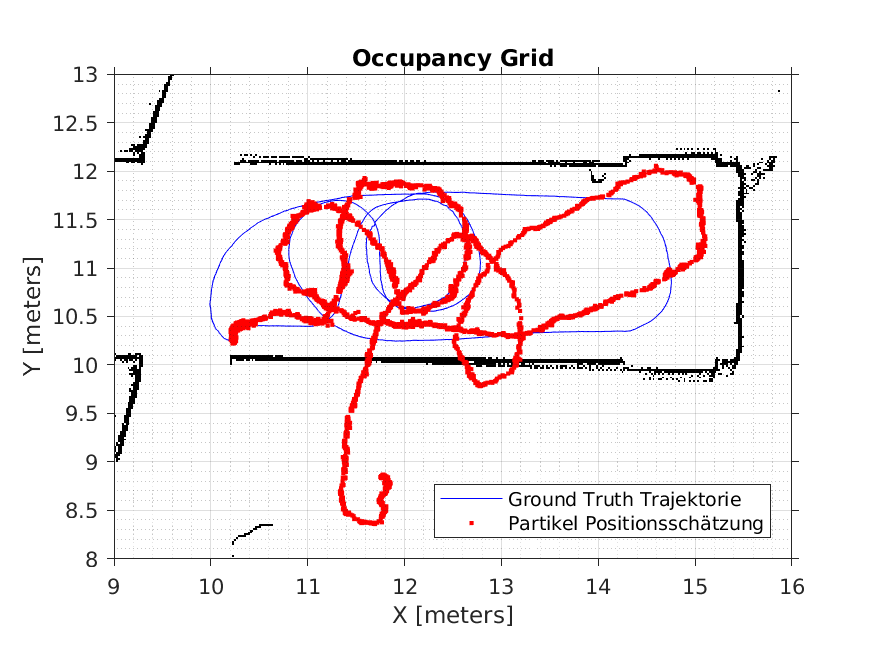
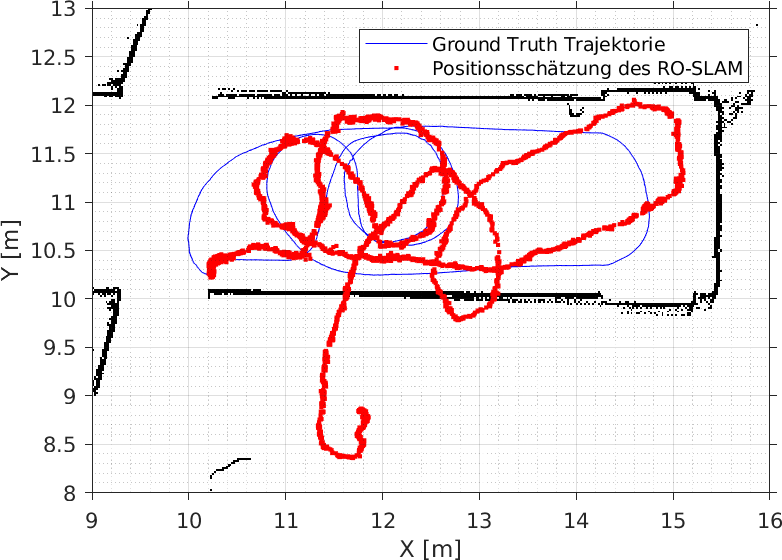
Abschnitt Positionsschätzung abgeschlossen.

diff --git a/6_evaluation.tex b/6_evaluation.tex
@@ -325,7 +325,7 @@ Sowohl die Karte der Umwelt als auch die verfahrenen Trajektorien sind in der \a
 		\caption{RF2O}
 		\label{fig:Record_2018-02-08-12-33-53_trajectory4}
 	\end{subfigure}
-	\caption{Rechteckige Trajektorien mit einigen Kreisbahnen der verschiedenen Odometriequellen.}
+	\caption{Die Trajektorien der verschiedenen Odometriequellen.}
 	\label{fig:Record_2018-02-08-12-33-53_trajectory}
 \end{figure}
 
@@ -371,25 +371,26 @@ Da die Trajektorie des laserbasierten \gls{rf2o}-Verfahren am besten der Ground 
 %%%%%%%%%%
 \subsection{Positionsschätzung}
 
-Im vorherigen Abschnitt wurde bereits die Trajektorie der verschiedenen Odometriequellen untersucht. Mit dem rf2o-Verfahren wird die Positionsschätzung des roslam-Verfahrens untersucht. Es wird dabei die Trajektorie mit dem abgerundeten Rechteck mit mehrere Kreisbahnen verwendet, siehe \autoref{fig:Record_2018-02-08-12-33-53_trajectory}. Da auch die Entfernungsmessungen der uwbm einen Einfluss auf die Positionsschätzung besitz, werden neben den echten Entfernungmessungen auch Entfernungsmessungen von perfekten virtuellen uwbm verwendet.
+Im vorherigen Abschnitt wurde bereits die Trajektorie der verschiedenen Odometriequellen untersucht. Die Entscheidung fiel auf das \gls{rf2o}-Verfahren, mit dem nun die Positionsschätzung des \gls{roslam}-Verfahren untersucht wird. Es wird dabei die Trajektorie mit dem abgerundeten Rechteck mit mehrere Kreisbahnen verwendet, siehe \autoref{fig:Record_2018-02-08-12-33-53_trajectory}. Da auch die Entfernungsmessungen der \glspl{uwbm} einen Einfluss auf die Positionsschätzung haben, werden neben den realen auch virtuelle \glsuseri{uwbm} verwendet. Die virtuellen \glspl{uwbm} zeichnen sich dadurch aus, dass ihre Entfernungsmessungen keine Fehler aufweisen und daher als perfekt angesehen werden können.
 
-In der Abbildung ... ist die tätschliche Trajektorie und die des Partikel Filters abgebildet. Die oben zwei Bilder verwenden die Entfernungsmessungen der echten uwbm, wobei die unteren zwei Bilder die Entfernungsmessung von virtuellen uwbm verwenden. Es ist eindeutigen zu erkennen das die Genauigkeit der Entfernungsmessung einen großen Einfluss auf die Positionsschätzung besitzt. Die oberen zwei Positionsschätzungen weisen starke Abweichungen von der tatsächlichen Trajektorie auf. Erstaunlich ist es auch, das das Abspielen des gleichen Datensatzes immer wieder zu einer anderen Trajektorie führt. Dieses Verhalten lässt sich nur bedingt dadurch erklären, das beim Resampling zufällige Partikel erzeugt werden.
+In der \autoref{fig:Record_2018-02-08-12-33-53_filtered_trajectory_pf} ist die tatsächliche Trajektorie und die des \gls{roslam} Partikel Filters abgebildet. Die oberen zwei Abbildungen verwenden die Entfernungsmessungen der realen \glspl{uwbm} und die unteren zwei Abbildungen die Entfernungsmessung von virtuellen \glspl{uwbm}. Auf der linken Seite befinden sich die Positionsschätzungen die die Ground Truth Trajektorie gut abbilden und auf der rechten Seite die die sie schlecht abbilden. Während bei den realen \glsuseri{uwbm} die Positionsschätzung sehr große Abweichungen von der Ground Truth Trajektorie besitzt, bildet die Positionsschätzung der virtuellen \glspl{uwbm} die Ground Truth Trajektorie deutlich besser ab, selbst bei der schlechten Abbildung weist die Positionsschätzung nur einen leichten Winkelfehler auf.
 
-Die Abweichung bei den virtuellen uwbm fällt deutlich geringer aus, wie man in den Abbildung (c) und (d) sehen kann. Daher liegt die Vermutung sehr nahe, das die Entfernungsmessung der uwbm nicht ausreichtend genau ist .
+Das führt zu der Vermutung, dass die Qualität der Entfernungsmessung einen entscheidenden Einfluss auf die Positionsschätzung des \gls{roslam}-Verfahrens besitzt. Je geringe die Abweichungen der Entfernungsmessung von der tatsächlichen Entfernung desto besser. Bemerkenswert ist es auch, dass die Reproduzierbarkeit der Ergebnisse mit den virtuellen \glsuseri{uwbm} deutlich eher gegeben war, als mit den realen \glsuseri{uwbm}.
 
+% pose_diff.m -> viz_trajectory(...)
 \begin{figure}
 	\centering
 	\begin{subfigure}{0.49\linewidth}
 		\centering
 		\includegraphics[width=\linewidth]{Record_2018-02-08-12-33-53_filtered_3_trajectory_pf}
-		\caption{Trajektorie mit echten UWB-Modulen.}
+		\caption{\textit{Gute} Trajektorie mit den realen \glsuseri{uwbm}.}
 		\label{fig:Record_2018-02-08-12-33-53_filtered_3_trajectory_pf}
 	\end{subfigure}
 	\hfill
 	\begin{subfigure}{0.49\linewidth}
 		\centering
 		\includegraphics[width=\linewidth]{Record_2018-02-08-12-33-53_filtered_1_trajectory_pf}
-		\caption{???}
+		\caption{\textit{Schlechte} Trajektorie mit den realen \glsuseri{uwbm}.}
 		\label{fig:Record_2018-02-08-12-33-53_filtered_1_trajectory_pf}
 	\end{subfigure}
 	\par
@@ -397,17 +398,17 @@ Die Abweichung bei den virtuellen uwbm fällt deutlich geringer aus, wie man in 
 	\begin{subfigure}{0.49\linewidth}
 		\centering
 		\includegraphics[width=\linewidth]{Record_2018-02-08-12-33-53_filtered_5_trajectory_pf}
-		\caption{???}
+		\caption{\textit{Gute} Trajektorie mit den virtuellen \glsuseri{uwbm}.}
 		\label{fig:Record_2018-02-08-12-33-53_filtered_5_trajectory_pf}
 	\end{subfigure}
 	\hfill
 	\begin{subfigure}{0.49\linewidth}
 		\centering
 		\includegraphics[width=\linewidth]{Record_2018-02-08-12-33-53_filtered_4_trajectory_pf}
-		\caption{???}
+		\caption{\textit{Schlechte} Trajektorie mit den virtuellen \glsuseri{uwbm}.}
 		\label{fig:Record_2018-02-08-12-33-53_filtered_4_trajectory_pf}
 	\end{subfigure}
-	\caption{???}
+	\caption{Resultierende Trajektorie aus der Positionsschätzung des \glsentryshort{roslam} mit realen und virtuellen \glsuseri{uwbm}.}
 	\label{fig:Record_2018-02-08-12-33-53_filtered_trajectory_pf}
 \end{figure}
 

diff --git a/auswertungen/ro_slam_data/pose_diff.m b/auswertungen/ro_slam_data/pose_diff.m
@@ -17,7 +17,7 @@ map_center = (map_size * map_resolution) / 2;
 %
 %file_name_source = 'Record_2017-12-18-11-53-54';
 file_name_source = 'Record_2018-02-08-12-33-53_filtered';
-file_name_number = '_6';
+file_name_number = '_4';
 file_name_pt = strcat(file_name_source, file_name_number, '_pt.csv');
 file_name_pe = strcat(file_name_source, file_name_number, '_pe.csv');
 file_name_map = strcat(file_name_source, '.pgm');
@@ -45,10 +45,10 @@ occupancy_grid = robotics.OccupancyGrid(data_map, 1 / map_resolution);
 viz_trajectory(data_pt, data_pe, occupancy_grid);
 
 
-file_name = strcat(file_name_source, file_name_number);
-[file_path, file_name, file_ext] = fileparts(file_name);
-file_saveas = fullfile(file_path, [file_name '_trajectory_pf']);
-saveas(gcf, file_saveas, 'png');
+% file_name = strcat(file_name_source, file_name_number);
+% [file_path, file_name, file_ext] = fileparts(file_name);
+% file_saveas = fullfile(file_path, [file_name '_trajectory_pf']);
+% saveas(gcf, file_saveas, 'png');
 
 
 function viz_trajectory(pose_trajectory, pose_estimation, occupancy_grid)
@@ -56,18 +56,21 @@ function viz_trajectory(pose_trajectory, pose_estimation, occupancy_grid)
 	%
 	show(occupancy_grid);
 	hold on; grid on; grid minor;
+	title('');
+	xlabel('X [m]');
+	ylabel('Y [m]');
 	
 	% Ground Truth Trajectory
 	plot(pose_trajectory(:, cid.x), pose_trajectory(:, cid.y), 'b-', 'DisplayName', 'Ground Truth Trajektorie');
 	
 	% Particle Filter Trajectory
-	plot(pose_estimation(:, cid.x), pose_estimation(:, cid.y), 'r.', 'DisplayName', 'Partikel Positionsschätzung');
+	plot(pose_estimation(:, cid.x), pose_estimation(:, cid.y), 'r.', 'DisplayName', 'Positionsschätzung des RO-SLAM');
 	
 	%
 	%axis equal;
 	xlim([9 16]);
 	ylim([8 13]);
-	legend('Location', 'southeast');
+	legend('Location', 'northeast');
 end
 
 function viz_some(pose_trajectory, pose_estimation, occupancy_grid)
